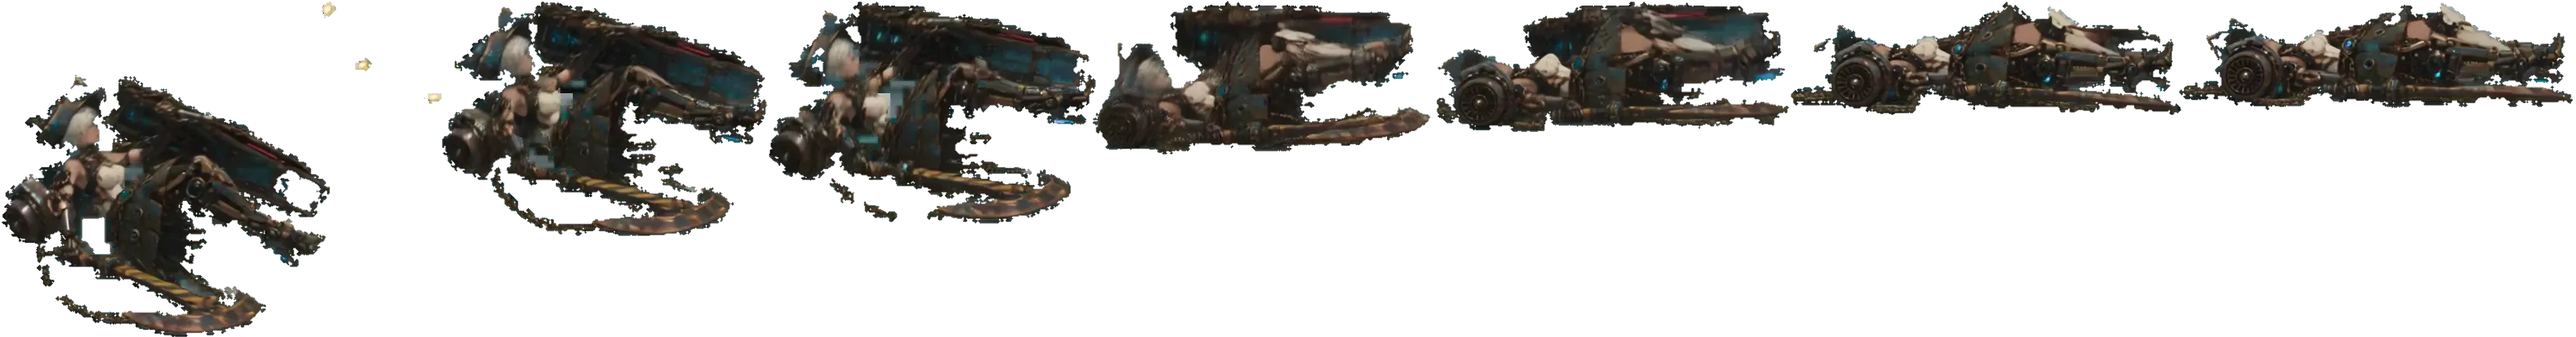
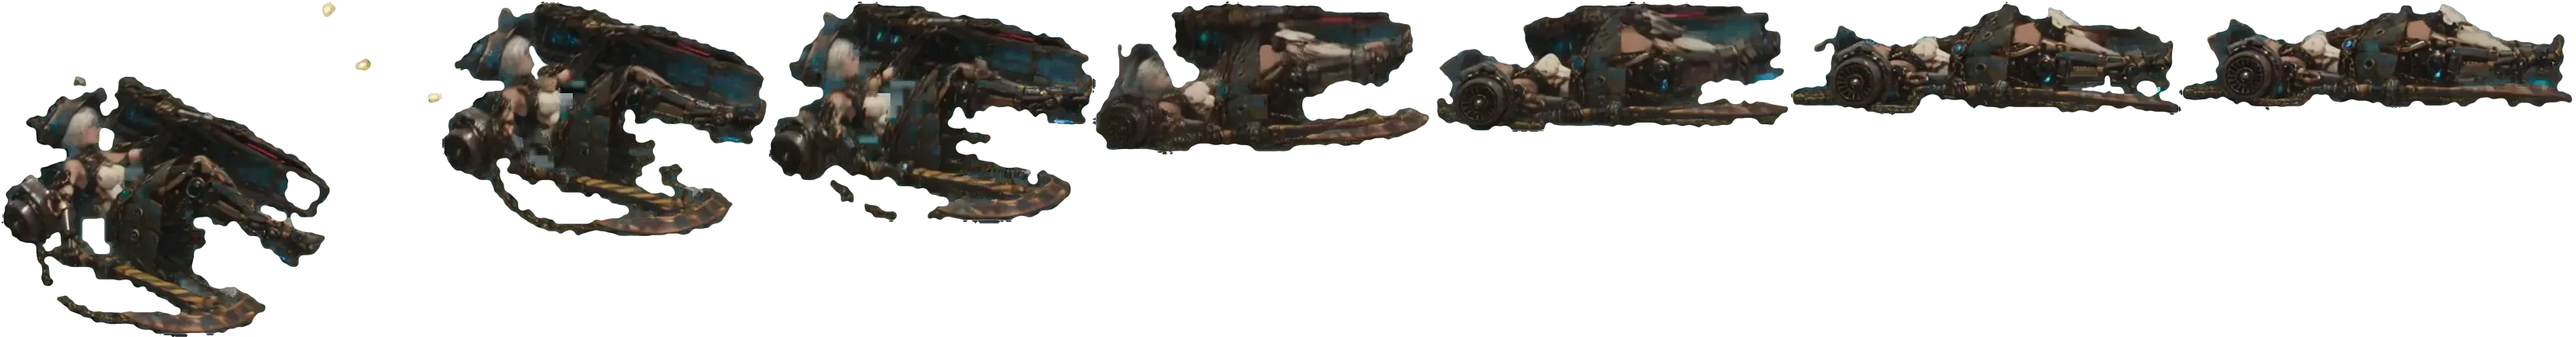
Every attack is guardable: drop ARIA EX's unblockable follow-up hits, guard regardless of facing (cross-ups/pass-throughs that land before the turn), stop ARIA EX lifting a guarding foe, cross-up grace for hold-back guard. ISANA: smooth the jagged sprite outlines on all 18 atlases (anti-aliased cont

diff --git a/game.js b/game.js
@@ -225,10 +225,11 @@ function track(p) { LOAD.total++; return p.then(v => { LOAD.done++; const el = d
 // Atlases are NOT decoded at boot any more: only the fighters in the current match are kept in memory,
 // so the roster can grow (10+ characters) without phones running out of RAM.
 const ANIM_META = {};
+const ANIM_REV = '20261006';   // bump when an anim/*.json changes so browsers drop the cached one (ISANA edges smoothed 2026-10-06)
 const ANIM_LOAD = {};          // id -> Promise while loading
 async function buildAnims() {
   await Promise.all(Object.keys(CHARS).map(async id => {
-    try { ANIM_META[id] = await (await fetch('anim/' + id + '.json')).json(); } catch (e) { }
+    try { ANIM_META[id] = await (await fetch('anim/' + id + '.json?v=' + ANIM_REV)).json(); } catch (e) { }
   }));
 }
 function loadAnim(id, onTick) {
@@ -1046,9 +1047,11 @@ function startUlt(f) {
 function hitTarget(att, tgt, o) {
   if (tgt.inv > 0 || tgt.ko || tgt.state === 'down' || G.phase !== 'fight') return false;
   const fromDir = Math.sign(tgt.x - att.x) || att.face;
-  const guarding = (tgt.state === 'guard' || (tgt.holdBack && (tgt.state === 'walk' || tgt.state === 'idle'))) && onGround(tgt) && tgt.face === -fromDir;
+  // guard works from either side: a grounded fighter holding guard blocks even a cross-up that lands before they turn round
+  const guarding = (tgt.state === 'guard' || (tgt.holdBack && (tgt.state === 'walk' || tgt.state === 'idle'))) && onGround(tgt);
   const hx = (att.x + tgt.x) / 2 + fromDir * 20, hy = tgt.y - (o.hy || 160);
-  if (guarding && !o.unblock) {
+  if (guarding) {   // every attack is guardable (no unblockables)
+    tgt.face = -fromDir;
     tgt.hp = Math.max(1, tgt.hp - o.dmg * (o.ult ? .2 : .05)); tgt.vx = fromDir * (o.kb || 4) * (o.ult ? .5 : .4); tgt.stun = o.ult ? 9 : 7; tgt.t = 0;   // stronger guard: small chip, short blockstun, little pushback
     tgt.gauge = Math.min(100, tgt.gauge + o.dmg * .6); att.gauge = Math.min(100, att.gauge + o.dmg * .4);
     fxHex(tgt.x - fromDir * 40, tgt.y - 150, tgt.col.rgb, -fromDir); fxSpark(hx, hy, '180,220,255', 8, .6, -fromDir); fxRing(hx, hy, '180,220,255', 10, 70, 12, 4);
@@ -1410,9 +1413,9 @@ function ariaWireDash(f, o, m, t, k, at, dt, first) {
     const hb = { x0: Math.min(px, f.x) - 80, x1: Math.max(px, f.x) + 80, y0: Math.min(py, f.y) - 280, y1: Math.max(py, f.y) + 20 };
     if (z.hit < z.multi && z.ft >= z.next && G.phase === 'fight' && overlap(hb, hurt(o))) {
       z.hit++; z.next = z.ft + 4; const fin = (EX ? z.pass === 1 : true) && z.hit === z.multi;
-      hitTarget(f, o, { dmg: EX ? 3.8 : 6, kb: fin ? 13 : 4, stun: 26, power: fin ? (EX ? 2.2 : 1.5) : 1.1, launch: fin ? -11 : 0, hy: clamp(o.y - f.y + 150, 60, 240), unblock: EX && z.hit > 1 });
+      hitTarget(f, o, { dmg: EX ? 3.8 : 6, kb: fin ? 13 : 4, stun: 26, power: fin ? (EX ? 2.2 : 1.5) : 1.1, launch: fin ? -11 : 0, hy: clamp(o.y - f.y + 150, 60, 240) });
       fxGears(o.x, o.y - 150, EX ? 10 : 6, 1.2, z.dir); fxArc(o.x, o.y - 150, 120, -1.2, 1.2, BRASS.teal, z.dir, 12, 30);
-      if (EX) { fxBig(o.x, o.y - 150, BRASS.glow, BRASS.hot, 1.6, z.dir); if (!fin) { o.vx = z.dir * 20; o.vy = Math.min(o.vy, -6); } }   // gravity wake drags the foe along
+      if (EX) { fxBig(o.x, o.y - 150, BRASS.glow, BRASS.hot, 1.6, z.dir); if (!fin && o.state !== 'guard') { o.vx = z.dir * 20; o.vy = Math.min(o.vy, -6); } }   // gravity wake drags the foe along (not a guarding one: lifting them would make the rest unguardable)
     }
     if (L < 2) {   // arrived: anchor burst
       fxRing(f.x + z.dir * 50, f.y - 160, f.col.rgb, 20, 200, 18, 8); fxGears(f.x + z.dir * 60, f.y - 160, 8, 1.2, -z.dir); shake(7); quake(5, .25); playS('arca_armor', .4, 1.4);
@@ -2625,7 +2628,11 @@ function stepFighter(f, o, inp, dt) {
   const grounded = onGround(f);
   if (canAct && f.gauge < 100) f.gauge = Math.min(100, f.gauge + .035 * dt);
   const away = Math.sign(f.x - o.x) || -f.face, dirIn = (inp.r ? 1 : 0) - (inp.l ? 1 : 0);
-  f.holdBack = grounded && dirIn !== 0 && dirIn === away;
+  // cross-up grace: for a moment after the foe switches sides (jumps or flies over), holding either direction still guards,
+  // so a fighter who was holding back isn't hit just because 'back' flipped under them
+  const oSide = Math.sign(f.x - o.x); if (oSide && f.oSide && oSide !== f.oSide) f.crossT = 12; if (oSide) f.oSide = oSide;
+  if (f.crossT > 0) f.crossT -= dt;
+  f.holdBack = grounded && dirIn !== 0 && (dirIn === away || f.crossT > 0);
   if (f.state === 'idle' || f.state === 'walk' || f.state === 'guard') {
     if (grounded) f.face = Math.sign(o.x - f.x) || f.face;
     if (canAct) {

diff --git a/index.html b/index.html
@@ -477,6 +477,6 @@ body.portrait:not(.rotate-dismissed) #rotate{display:flex}
 <div id="loading">読み込み中… <span id="loadPct">0%</span></div>
 
 <script>window.ASSETS={"su": "assets/suzune.webp", "ao": "assets/aoi.webp", "drone": "assets/drone.webp", "suci": "assets/suzune_cutin.webp", "aoci": "assets/aoi_cutin.webp", "ar": "assets/arca.webp", "arci": "assets/arca_cutin.webp", "arp": "assets/arca_pilot.webp", "arcard": "assets/arca_card.webp", "tsu": "assets/title_suzune.webp", "tao": "assets/title_aoi.webp", "tar": "assets/title_arca.webp", "tsa": "assets/title_sakura.webp", "sa": "assets/sakura.webp", "saci": "assets/sakura_cutin.webp", "sacard": "assets/sakura_card.webp", "mi": "assets/mio.webp", "mici": "assets/mio_cutin.webp", "micard": "assets/mio_card.webp", "ar2": "assets/aria.webp", "ar2ci": "assets/aria_cutin.webp", "ar2card": "assets/aria_card.webp", "tari": "assets/title_aria.webp", "en": "assets/enjo.webp", "enci": "assets/enjo_cutin.webp", "encard": "assets/enjo_card.webp", "enskull": "assets/enjo_skull.webp", "tenj": "assets/title_enjo.webp", "re": "assets/rei.webp", "reci": "assets/rei_cutin.webp", "recard": "assets/rei_card.webp", "trei": "assets/title_rei.webp", "ka": "assets/kanna.webp", "kaci": "assets/kanna_cutin.webp", "kacard": "assets/kanna_card.webp", "tkan": "assets/title_kanna.webp", "ic": "assets/ichika.webp", "icci": "assets/ichika_cutin.webp", "iccard": "assets/ichika_card.webp", "tich": "assets/title_ichika.webp", "is": "assets/isana.webp", "isci": "assets/isana_cutin.webp", "iscard": "assets/isana_card.webp", "tisa": "assets/title_isana.webp", "tmi": "assets/title_mio.webp"};</script>
-<script src="game.js?v=20261006e"></script>
+<script src="game.js?v=20261006f"></script>
 </body>
 </html>

diff --git a/wip/isana/HANDOFF.md b/wip/isana/HANDOFF.md
@@ -66,3 +66,9 @@ isana: { id: 'isana', name: 'ISANA', role: 'サルベージ海賊・錨', c1: '#
 18 ……覚えときな。次は、あんたを引き揚げてやる。
 ```
   - 分割は前回と同じ（無音検出＋Whisper の時刻）→ `media/voice/is_01..18.mp3` を上書き → index.html の `game.js?v=` を上げる
+
+## 2026-10-06 修正（PCセッション・2回目）
+- **輪郭のギザギザを修正**：再マットで alpha がほぼ 0/255 になり、輪郭が数px単位の階段状になっていた（特に盾の外周）。全18アトラス・216コマを1コマずつ処理：
+  小さな浮きゴミを除去 → 外側に開いた切れ込み（幅〜10px）を閉じる（錨の輪など閉じた本物の隙間は残す）→ 閉じきれず残った小さな穴を埋める → マスクをぼかして輪郭を滑らかにし約1pxのアンチエイリアスを付ける → 縁の色は内側の最寄りの不透明色で埋める（緑のにじみ防止）。
+  json の参照は `?v=3`、`anim/*.json` の読み込みにも `ANIM_REV` を付けた。処理前の原本は `C:\Users\szou\isana_work\anim_backup\`、処理スクリプトは `isana_work\smooth\smooth.py`
+- **全攻撃ガード可能に（全キャラ共通・game.js）**：ARIA EX の2ヒット目以降のガード不能（`unblock`）を削除／ガード中なら向きに関係なくガードできるように（めくり・すり抜けの同フレーム被弾を防ぐ）／ARIA EX がガードした相手を宙に浮かせていたのを修正／相手が背後に回った直後12フレームは左右どちらを押してもガード扱い
